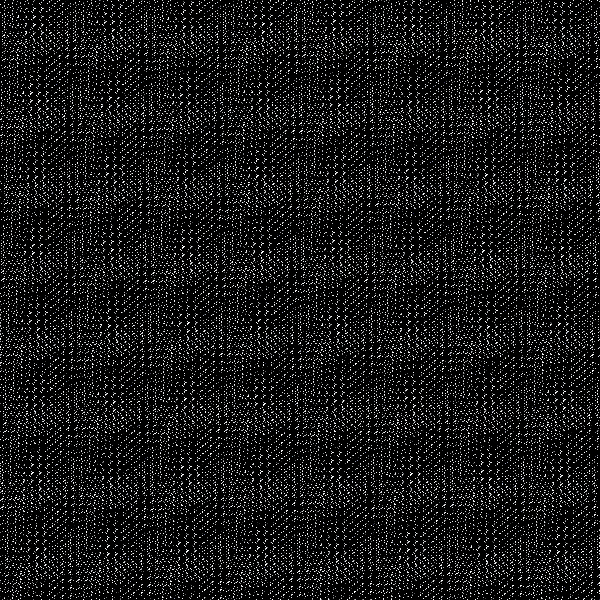
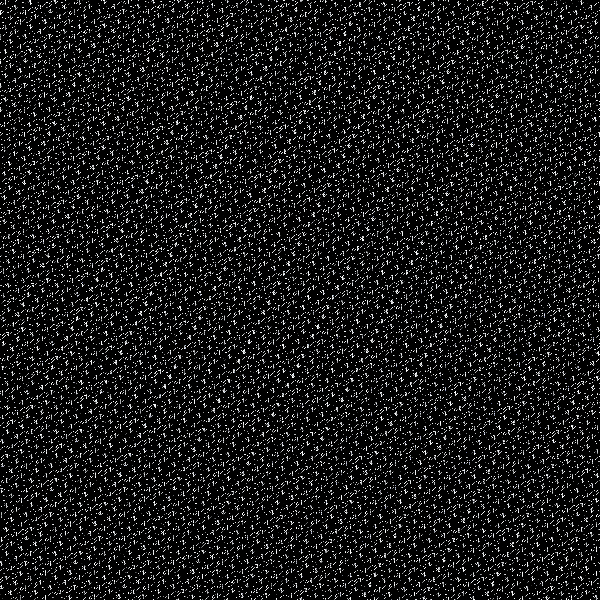
Code for Image encryption

Changed region(s): [[0.0, 0.0, 1.0, 1.0]]

diff --git a/RSA_Alg.py b/RSA_Alg.py
@@ -21,7 +21,6 @@ imgclr_1D = clrimg.ravel()
 
 
 ### GCD Function
-
 def CalculateGcd(i,j):
     temp = i%j
     while(temp != 0):
@@ -40,8 +39,6 @@ totientValue = (p1-1)*(p2-1)
 
 # Initially selecting a value of e between 1 and the totient value
 e = random.randrange(1, totientValue)  
-
-
 #Using GCD to verify if e and totient(phi(n)) are comprime or not
 # If not select a new value of e
 gcdVal = CalculateGcd(e, totientValue)
@@ -85,8 +82,6 @@ for i in range(0, len(ency)):
 decy_img = np.array(dec_clr).reshape(clrimg.shape[0], clrimg.shape[1], clrimg.shape[2])
 imgplot = plt.imshow(decy_img)
 plt.show()
-
-print("here")
 
 
 

diff --git a/ArnoldCatMap.py b/ArnoldCatMap.py
@@ -66,13 +66,12 @@ def decryptImage(imageData, key):
 cwd_path = os.getcwd()
 print("path: ", cwd_path)
 
-image_path = cwd_path+ '/test.png'
-key = 100
+image_path = cwd_path+ '/test_copy.png'
+key = 25
 
 imgclr = readImage(image_path)
 cv2.imshow('image view', imgclr)
 cv2.waitKey(0)
-print(imgclr.shape)
 
 EncryptedImageData = encryptImage(imgclr, key)
 EncryptedWritePath = cwd_path+'/Arnold_Cat_Enc.png'

diff --git a/HenonMap.py b/HenonMap.py
@@ -128,8 +128,8 @@ def HenonDecryption(imageNameEnc, key):
 cwd_path = os.getcwd()
 print("path: ", cwd_path)
 
-image_path = cwd_path + '/test.png'
-image = "test"
+image_path = cwd_path + '/test_copy.png'
+image = "test_copy"
 ext = ".png"
 key = (0.1,0.1)
      
